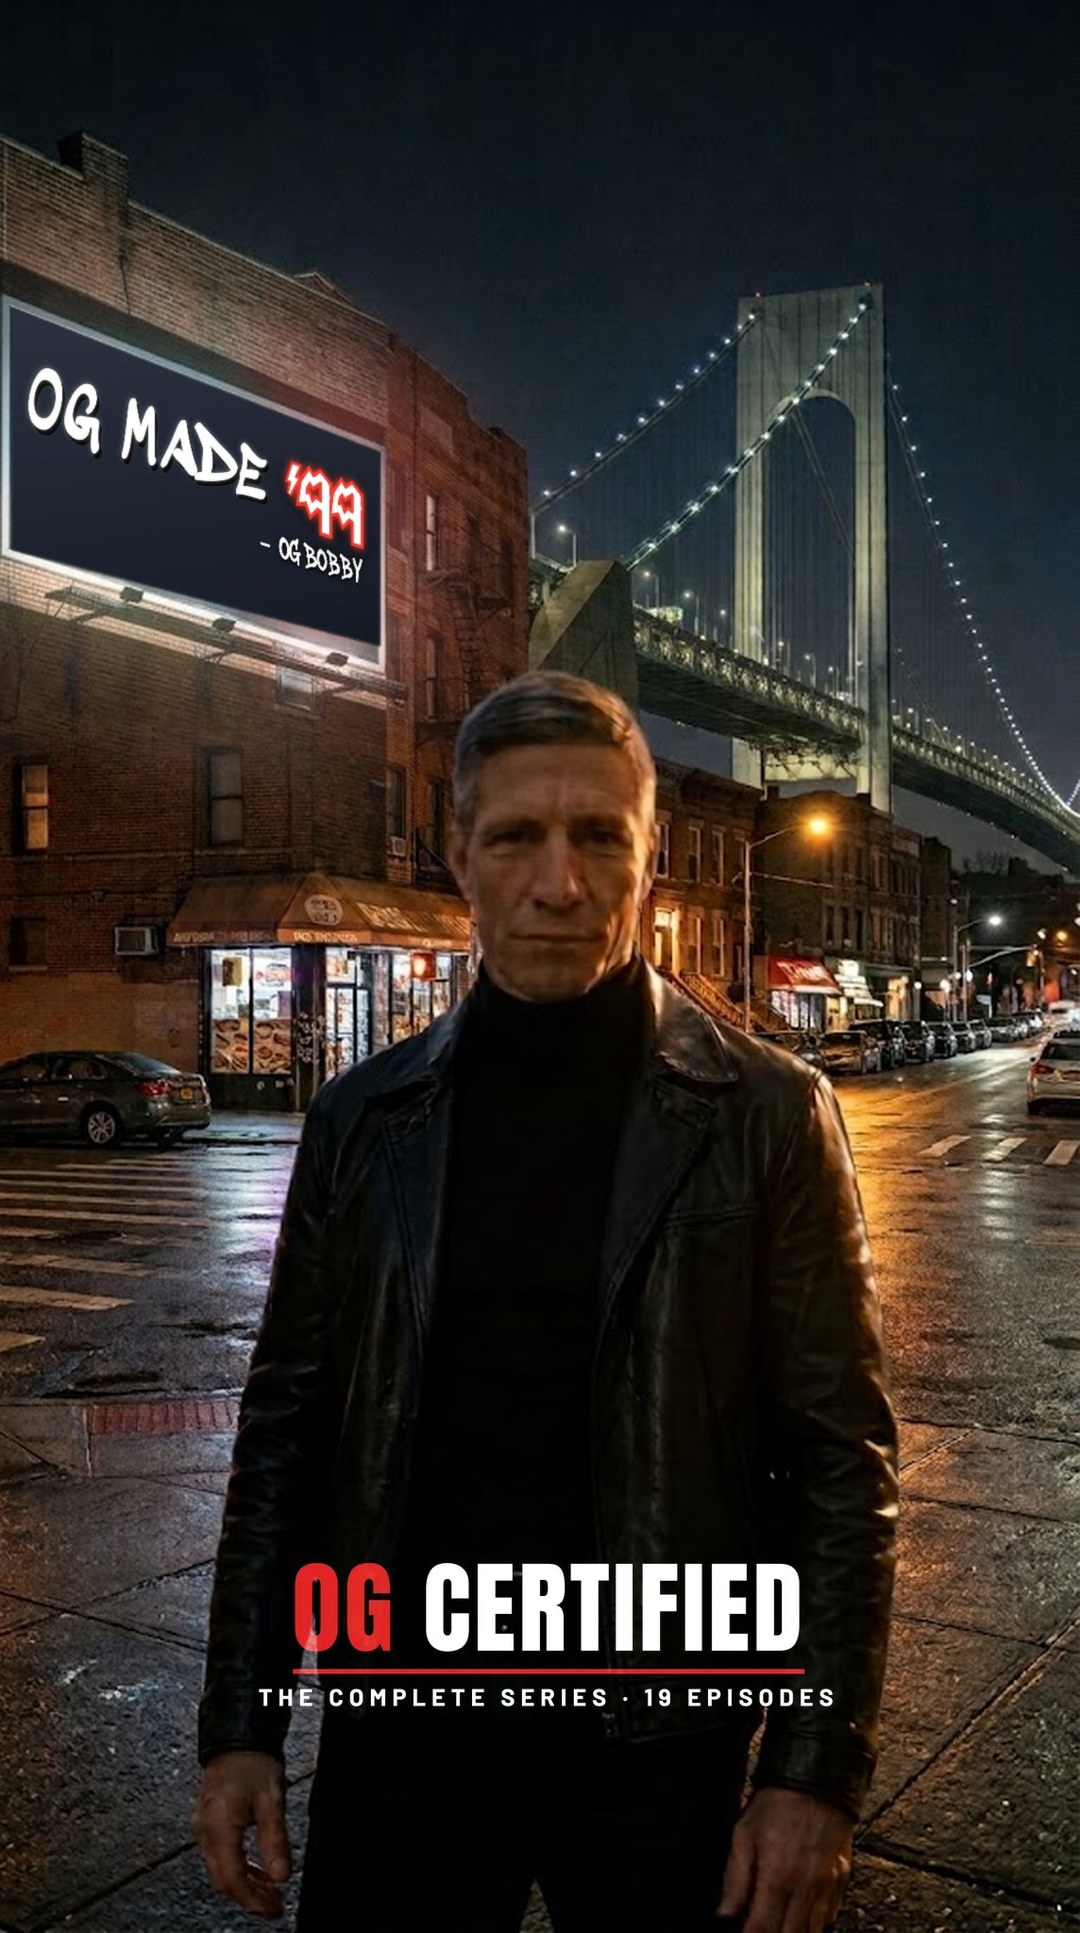
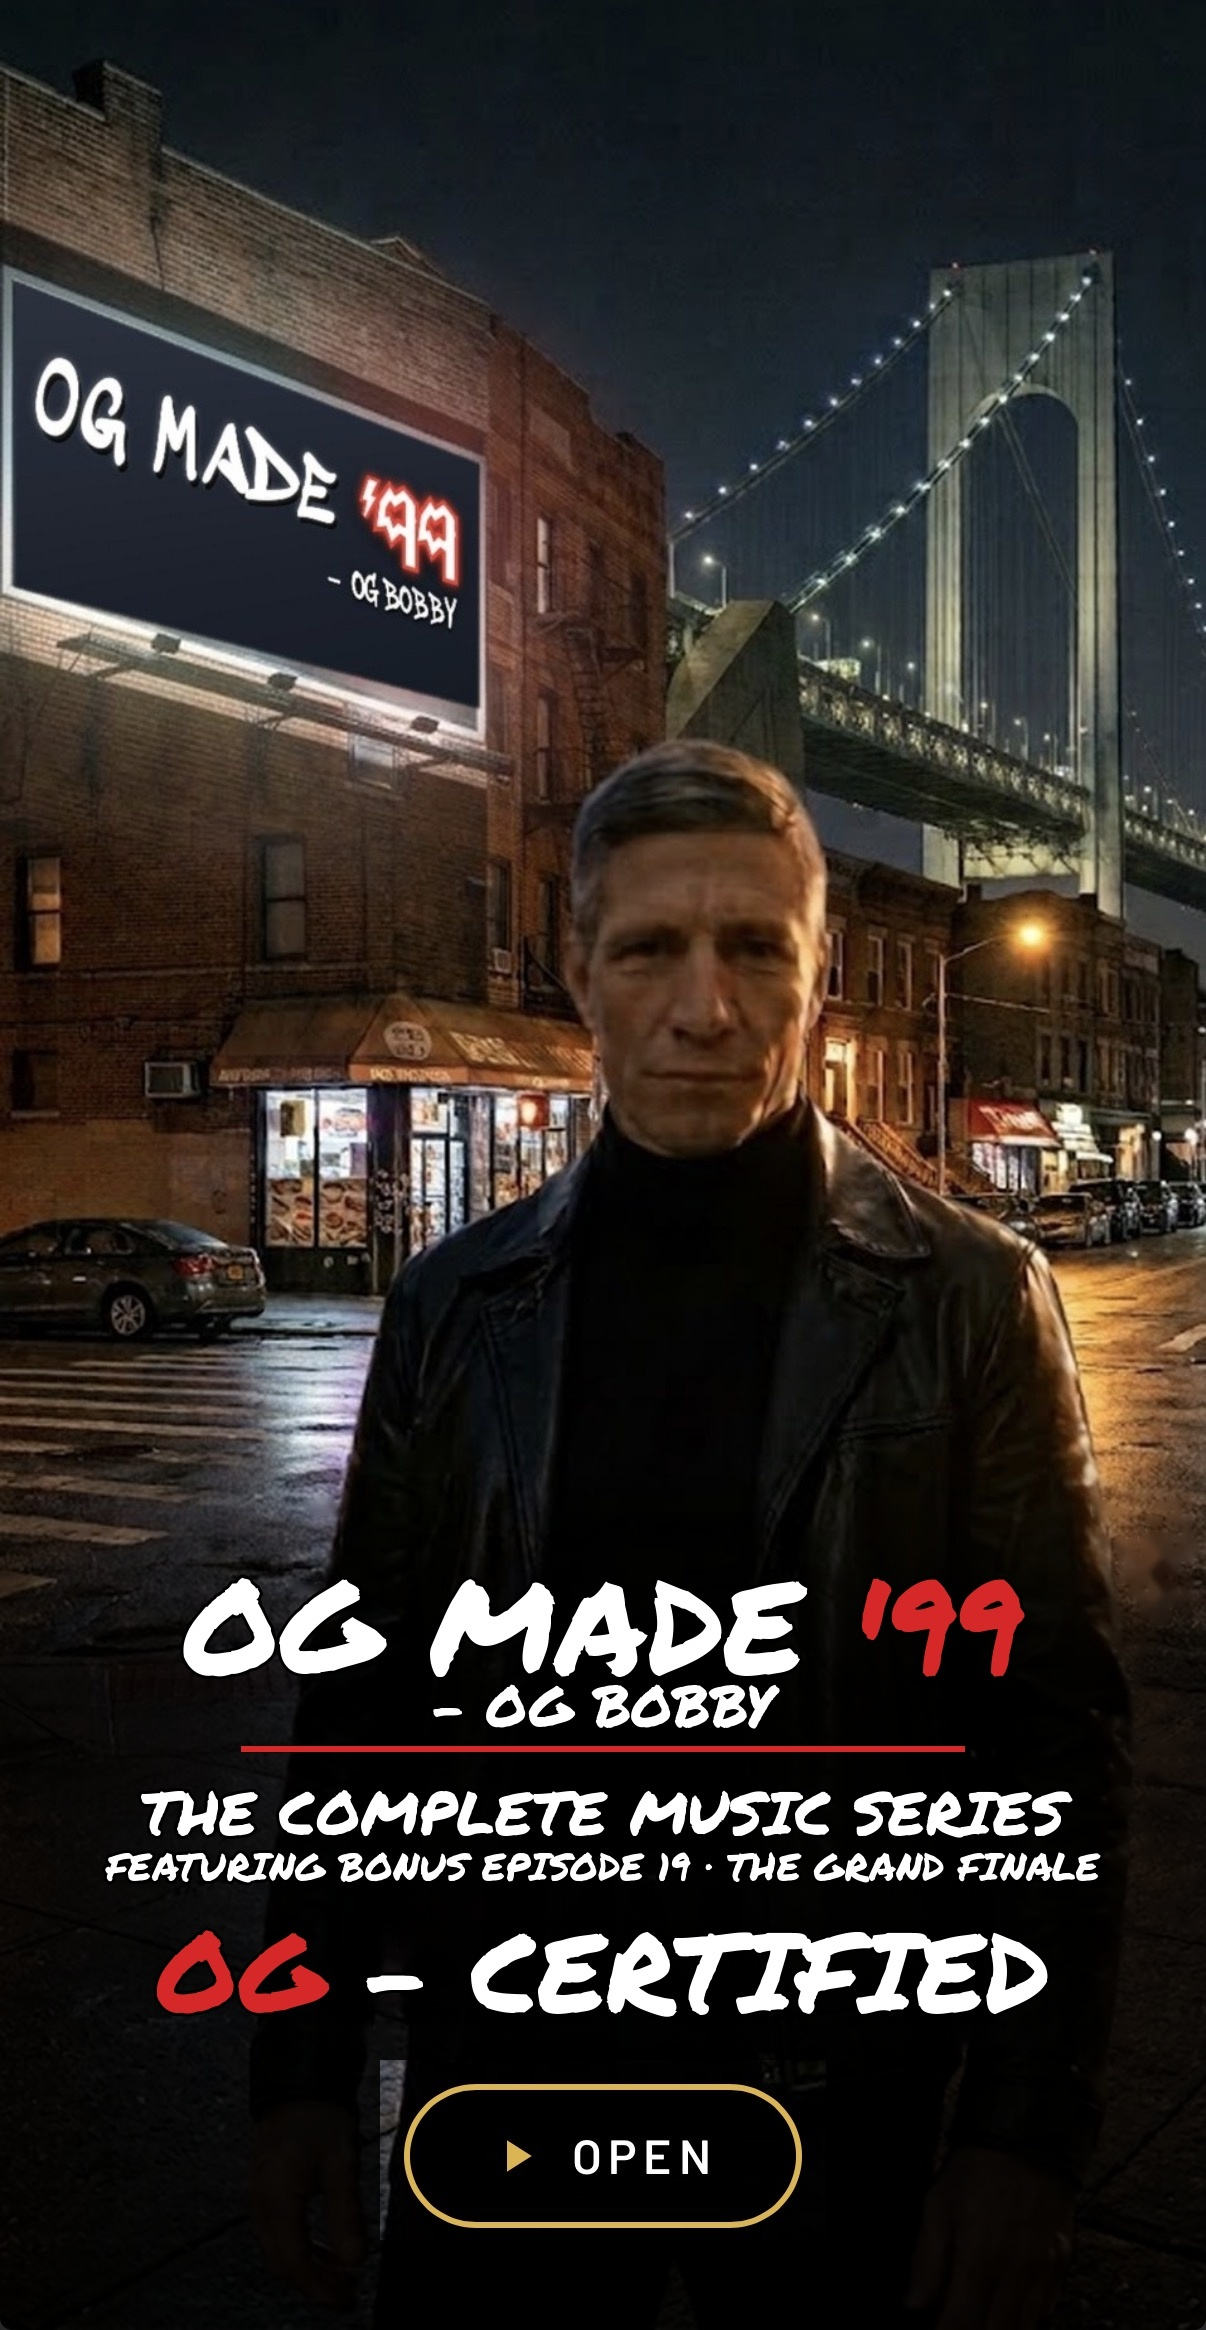
OG Made '99 complete series: new poster artwork; archive previous art
Claude-Session: https://claude.ai/code/session_01HXyZ2FfrDRgHpKxUajcaZB

diff --git a/og-certified-19-b7e4c1/index.html b/og-certified-19-b7e4c1/index.html
@@ -57,7 +57,7 @@ body { font-family: var(--body); font-size: 16px; -webkit-tap-highlight-color: t
 .cover-txt .open svg { width: 18px; height: 18px; fill: var(--gold); }
 
 /* Songs view */
-#bgArt { position: fixed; inset: 0; z-index: 0; background: #0a0d0b url("art.jpg?v=5") 50% 30% / cover no-repeat; filter: blur(18px) brightness(.35); transform: scale(1.1); }
+#bgArt { position: fixed; inset: 0; z-index: 0; background: #0a0d0b url("art.jpg?v=6") 50% 30% / cover no-repeat; filter: blur(18px) brightness(.35); transform: scale(1.1); }
 .wrap { position: relative; z-index: 1; max-width: 540px; margin: 0 auto; padding: 0 16px 48px; display: grid; gap: 16px; }
 .top { display: flex; align-items: center; justify-content: space-between; gap: 12px; }
 .top .back { flex: none; width: 44px; height: 44px; border-radius: 50%; border: 1px solid var(--line); background: rgba(0,0,0,.5); display: grid; place-items: center; cursor: pointer; }
@@ -140,7 +140,7 @@ footer { color: var(--soft); font-size: .8rem; text-align: center; }
 </head>
 <body>
 <div id="cover" role="button" tabindex="0" aria-label="Open OG MADE ’99">
-  <img class="art" src="art.jpg?v=5" alt="OG Bobby on a Bay Ridge street at night, the Verrazzano Bridge behind him and an OG MADE ’99 billboard on the corner">
+  <img class="art" src="art.jpg?v=6" alt="OG Bobby on a Bay Ridge street at night, the Verrazzano Bridge behind him and an OG MADE ’99 billboard on the corner">
     <div class="cover-txt sky">
     <span class="open"><svg viewBox="0 0 24 24"><path d="M8 5v14l11-7z"/></svg>Open</span>
   </div>
